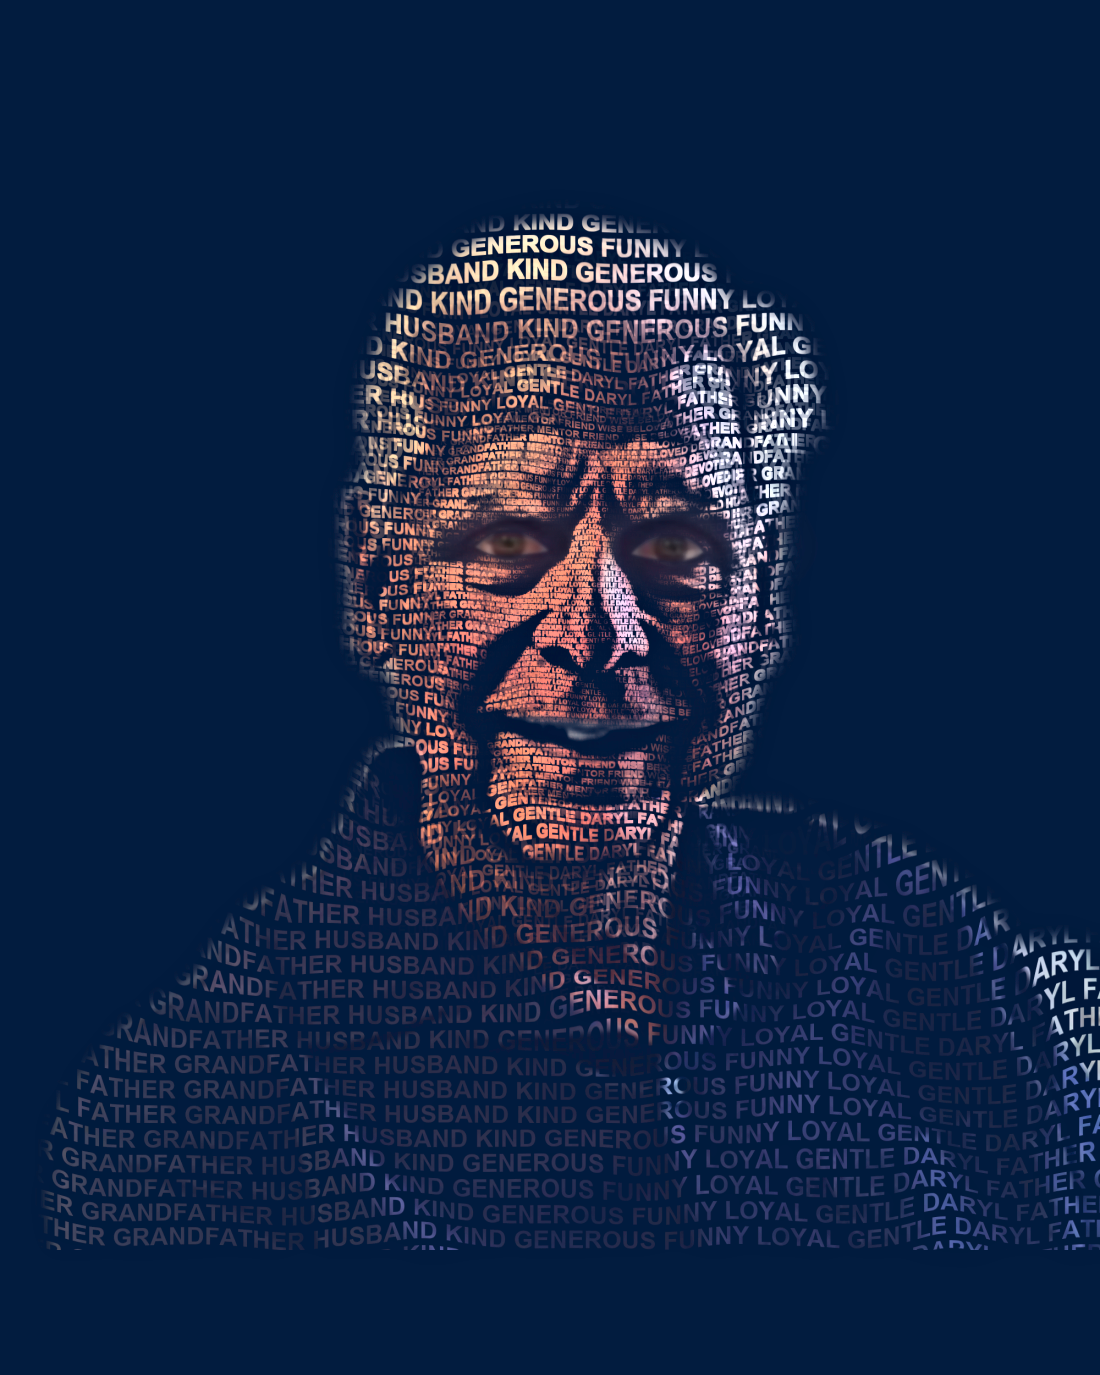
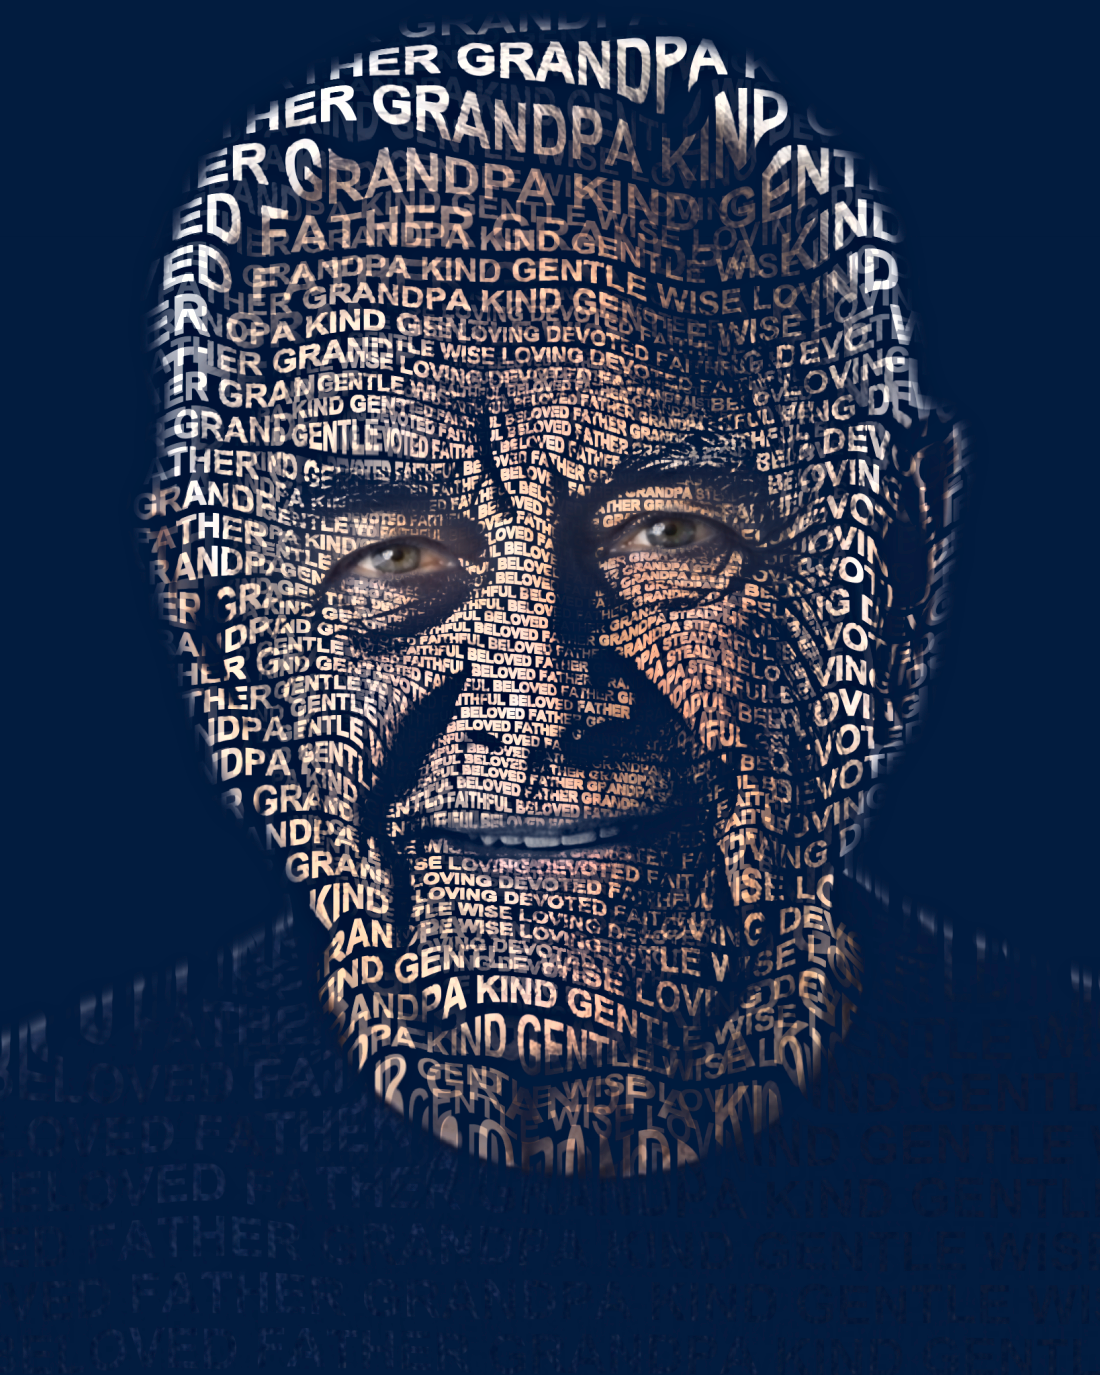
Keeper page: replace the low-res Daryl hero with a high-res, aligned portrait
Daryl was a 490px screenshot (soft render) and his ~square before didn't match
the 4:5 render, so the before/after slider misaligned. Swap in a dignified
high-res subject and crop the before to 4:5 on the face FIRST, then render the
after from that same crop -- so before and after share identical framing and the
slider lines up. Cache-bust the two swapped images v=1 -> v=2.

diff --git a/typography_engine/marketing/keeper/index.html b/typography_engine/marketing/keeper/index.html
@@ -89,7 +89,7 @@ footer .by{display:block; margin-top:8px; font-size:12px; color:var(--muted); op
     <p class="sub">A favorite photo of someone a family has lost becomes a portrait of their likeness — composed of their name, their dates, and the words that captured who they were. Printed, framed, and ready to keep or to give.</p>
     <a class="btn" href="https://app.typortrait.com/?brand=keeper">Create a remembrance keepsake</a>
     <span class="free">Free to create and preview — order only if it feels right.</span>
-    <img class="shot" src="portrait.png?v=1" alt="A lifelike memorial portrait made from words" />
+    <img class="shot" src="portrait.png?v=2" alt="A lifelike memorial portrait made from words" />
     <button type="button" class="zoomlink" id="zoomBtn">&#128269; View the words up close</button>
   </header>
 
@@ -97,8 +97,8 @@ footer .by{display:block; margin-top:8px; font-size:12px; color:var(--muted); op
     <h2>Made from a photo and the words you choose</h2>
     <p class="lede">Drag to see the change — their photograph becomes a portrait of the words that remember them.</p>
     <div class="ba" id="ba" aria-label="Drag to compare the photograph and the portrait made from words">
-      <img class="ba-after" src="portrait.png?v=1" alt="A portrait made from the words that describe him" />
-      <div class="ba-before" id="baBefore"><img src="before.jpg?v=1" alt="The original photograph" /></div>
+      <img class="ba-after" src="portrait.png?v=2" alt="A portrait made from the words that describe him" />
+      <div class="ba-before" id="baBefore"><img src="before.jpg?v=2" alt="The original photograph" /></div>
       <div class="ba-line" id="baLine"></div>
       <div class="ba-grip" id="baGrip">&#8596;</div>
       <span class="ba-tag l">their photo</span>
@@ -151,7 +151,7 @@ footer .by{display:block; margin-top:8px; font-size:12px; color:var(--muted); op
 </footer>
 <div class="zoomview" id="zoomView">
   <button class="zoomclose" id="zoomClose" aria-label="Close">&times;</button>
-  <img src="portrait.png?v=1" alt="The portrait up close — made from the words that remember them" />
+  <img src="portrait.png?v=2" alt="The portrait up close — made from the words that remember them" />
 </div>
 <script>
 (function(){
